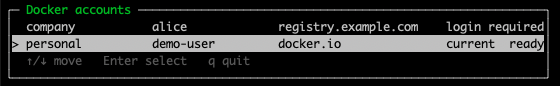
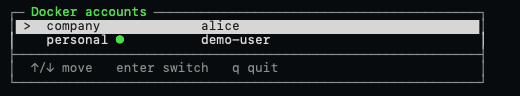
feat: streamline interactive account switching

diff --git a/internal/cli/cli.go b/internal/cli/cli.go
@@ -26,8 +26,7 @@ var errSelectionCanceled = errors.New("account selection canceled")
 const (
 	selectorBorderStyle   = ""
 	selectorAccentStyle   = "32" // the only explicit color
-	selectorCurrentStyle  = ""
-	selectorSelectedStyle = "7" // terminal-native reverse video
+	selectorSelectedStyle = "7"  // terminal-native reverse video
 	selectorMutedStyle    = "2"
 )
 
@@ -258,25 +257,71 @@ func (a *application) use(args []string) error {
 		name, err = a.selectAccount()
 		if err != nil {
 			if errors.Is(err, errSelectionCanceled) {
-				fmt.Fprintln(a.out, "Selection canceled.")
 				return nil
 			}
 			return err
 		}
 	}
-	if err := a.store.Use(name); err != nil {
-		return err
+	account, err := a.store.Get(name)
+	if err != nil {
+		return accountNotFound(name, err)
+	}
+	if len(args) == 0 && a.interactiveTerminal() && !a.store.HasCredentials(name) {
+		loginNow, err := a.confirmInteractiveLogin(account)
+		if err != nil {
+			return err
+		}
+		if !loginNow {
+			fmt.Fprintln(a.out, "No account change was made.")
+			return nil
+		}
+		if err := a.ensurePlugin(name); err != nil {
+			return err
+		}
+		if err := a.loginAccount(account, false); err != nil {
+			current, _ := a.store.Current()
+			if current != "" {
+				return fmt.Errorf("active account remains %q: %w", current, err)
+			}
+			return err
+		}
 	}
 	if err := a.ensurePlugin(name); err != nil {
 		return err
 	}
+	if err := a.store.Use(name); err != nil {
+		return err
+	}
 	if a.shellIntegrationActive() {
-		fmt.Fprintf(a.out, "Switched to Docker account %q.\n", name)
+		fmt.Fprintf(a.out, "✓ Switched to %s.\n", name)
 		return nil
 	}
 	fmt.Fprintf(a.out, "Selected Docker account %q, but the current shell is not activated.\n", name)
 	fmt.Fprintln(a.out, "Run once in this shell: eval \"$(docker account env)\"")
 	return nil
+}
+
+func (a *application) interactiveTerminal() bool {
+	input, inputOK := a.in.(*os.File)
+	output, outputOK := a.out.(*os.File)
+	return inputOK && outputOK && term.IsTerminal(int(input.Fd())) && term.IsTerminal(int(output.Fd()))
+}
+
+func (a *application) confirmInteractiveLogin(account accounts.Account) (bool, error) {
+	fmt.Fprintf(a.out, "\nAccount %q is not logged in to %s.\n", account.Name, account.Registry)
+	fmt.Fprint(a.out, "Login now? [Y/n] ")
+	value, err := bufio.NewReader(a.in).ReadString('\n')
+	if err != nil && !errors.Is(err, io.EOF) {
+		return false, fmt.Errorf("read login confirmation: %w", err)
+	}
+	switch strings.ToLower(strings.TrimSpace(value)) {
+	case "", "y", "yes":
+		return true, nil
+	case "n", "no":
+		return false, nil
+	default:
+		return false, errors.New("expected y or n")
+	}
 }
 
 func (a *application) selectAccount() (string, error) {
@@ -297,10 +342,8 @@ func (a *application) selectAccount() (string, error) {
 			currentIndex = index
 		}
 	}
-	if input, inputOK := a.in.(*os.File); inputOK {
-		if output, outputOK := a.out.(*os.File); outputOK && term.IsTerminal(int(input.Fd())) && term.IsTerminal(int(output.Fd())) {
-			return a.selectAccountTTY(input, items, currentIndex)
-		}
+	if a.interactiveTerminal() {
+		return a.selectAccountTTY(a.in.(*os.File), items, currentIndex)
 	}
 	return a.selectAccountLine(items, currentIndex)
 }
@@ -397,11 +440,25 @@ func (a *application) selectAccountTTY(input *os.File, items []accounts.Account,
 }
 
 func (a *application) renderAccountSelector(items []accounts.Account, currentIndex, selected int, redraw bool) {
-	lineCount := len(items) + 3
+	lineCount := len(items) + 4
 	if redraw {
 		fmt.Fprintf(a.out, "\x1b[%dA", lineCount)
 	}
+	showRegistry := false
+	for _, item := range items {
+		if !isDockerHubRegistry(item.Registry) {
+			showRegistry = true
+			break
+		}
+	}
 	width := a.selectorWidth()
+	maxWidth := 58
+	if showRegistry {
+		maxWidth = 82
+	}
+	if width > maxWidth {
+		width = maxWidth
+	}
 	innerWidth := width - 2
 	color := os.Getenv("NO_COLOR") == "" && os.Getenv("TERM") != "dumb"
 	border := func(value string) string { return ansiStyle(value, selectorBorderStyle, color) }
@@ -414,30 +471,27 @@ func (a *application) renderAccountSelector(items []accounts.Account, currentInd
 	top := border("┌─") + ansiStyle(title, selectorAccentStyle, color) + border(strings.Repeat("─", topFill)+"┐")
 	a.selectorRawLine(top)
 	for index, item := range items {
-		nameLine := selectorAccountText(item, index == selected, index == currentIndex, a.store.HasCredentials(item.Name), innerWidth)
+		nameLine := selectorAccountText(item, index == currentIndex, index == selected, a.store.HasCredentials(item.Name), showRegistry, innerWidth)
 		nameStyle := ""
 		if index == selected {
 			nameStyle = selectorSelectedStyle
-		} else if index == currentIndex {
-			nameStyle = selectorCurrentStyle
 		}
 		a.selectorBoxLine(nameLine, innerWidth, nameStyle, color)
 	}
-	a.selectorBoxLine("  ↑/↓ move   Enter select   q quit", innerWidth, selectorMutedStyle, color)
+	a.selectorRawLine(border("├" + strings.Repeat("─", width-2) + "┤"))
+	a.selectorBoxLine("  ↑/↓ move   enter switch   q quit", innerWidth, selectorMutedStyle, color)
 	a.selectorRawLine(border("└" + strings.Repeat("─", width-2) + "┘"))
 }
 
-func selectorAccountText(item accounts.Account, selected, current, configured bool, width int) string {
-	pointer := "  "
+func selectorAccountText(item accounts.Account, current, selected, configured, showRegistry bool, width int) string {
+	selectionMarker := "  "
 	if selected {
-		pointer = "> "
+		selectionMarker = "> "
 	}
-	status := "login required"
-	if configured {
-		status = "ready"
-	}
-	if current {
-		status = "current  " + status
+	prefix := " " + selectionMarker + " "
+	status := ""
+	if !configured {
+		status = "login"
 	}
 	available := width - utf8.RuneCountInString(status) - 1
 	if available < 1 {
@@ -445,17 +499,40 @@ func selectorAccountText(item accounts.Account, selected, current, configured bo
 	}
 	var details string
 	switch {
-	case width >= 68:
-		details = pointer + fixedColumn(item.Name, 16) + "  " + fixedColumn(item.Username, 16) + "  " + item.Registry
-	case width >= 54:
-		details = pointer + fixedColumn(item.Name, 14) + "  " + fixedColumn(item.Username, 14) + "  " + item.Registry
+	case showRegistry && width >= 68:
+		details = prefix + selectorProfileName(item.Name, current, 16) + "  " + fixedColumn(item.Username, 16) + "  " + item.Registry
+	case showRegistry:
+		details = prefix + selectorProfileName(item.Name, current, 14) + "  " + item.Registry
 	case width >= 44:
-		details = pointer + fixedColumn(item.Name, 14) + "  " + item.Username
+		details = prefix + selectorProfileName(item.Name, current, 16) + "  " + item.Username
 	default:
-		details = pointer + item.Name
+		details = prefix + selectorProfileName(item.Name, current, available-utf8.RuneCountInString(prefix))
 	}
 	details = truncateText(strings.TrimRight(details, " "), available)
 	return padBetween(details, status, width)
+}
+
+func selectorProfileName(name string, current bool, width int) string {
+	if !current {
+		return fixedColumn(name, width)
+	}
+	const activeLabel = " ●"
+	nameWidth := width - utf8.RuneCountInString(activeLabel)
+	if nameWidth < 1 {
+		return fixedColumn("●", width)
+	}
+	return fixedColumn(truncateText(name, nameWidth)+activeLabel, width)
+}
+
+func isDockerHubRegistry(registry string) bool {
+	registry = strings.ToLower(strings.TrimSpace(registry))
+	registry = strings.TrimSuffix(registry, "/")
+	switch registry {
+	case "docker.io", "index.docker.io", "registry-1.docker.io", "https://index.docker.io/v1":
+		return true
+	default:
+		return false
+	}
 }
 
 func fixedColumn(value string, width int) string {

diff --git a/internal/cli/cli_test.go b/internal/cli/cli_test.go
@@ -89,7 +89,7 @@ func TestUseOutputWhenShellIntegrationIsActive(t *testing.T) {
 	if err := app.use([]string{"work"}); err != nil {
 		t.Fatal(err)
 	}
-	if got := out.String(); got != "Switched to Docker account \"work\".\n" {
+	if got := out.String(); got != "✓ Switched to work.\n" {
 		t.Fatalf("unexpected output: %q", got)
 	}
 }
@@ -136,7 +136,7 @@ func TestUseInteractiveSelectionByNumber(t *testing.T) {
 	if current != "company" {
 		t.Fatalf("current = %q", current)
 	}
-	for _, expected := range []string{"Select a Docker account:", "default", "company", `Switched to Docker account "company".`} {
+	for _, expected := range []string{"Select a Docker account:", "default", "company", "✓ Switched to company."} {
 		if !strings.Contains(out.String(), expected) {
 			t.Errorf("output missing %q:\n%s", expected, out.String())
 		}
@@ -173,7 +173,7 @@ func TestMoveSelectionWraps(t *testing.T) {
 }
 
 func TestSelectorTextLayout(t *testing.T) {
-	if got := padBetween("> account", "current  ready", 36); utf8.RuneCountInString(got) != 36 {
+	if got := padBetween(" >  account ●", "login", 36); utf8.RuneCountInString(got) != 36 {
 		t.Fatalf("layout width = %d: %q", utf8.RuneCountInString(got), got)
 	}
 	if got := truncateText("a-very-long-account-name", 10); got != "a-very-lo…" {
@@ -183,17 +183,76 @@ func TestSelectorTextLayout(t *testing.T) {
 
 func TestSelectorAccountUsesSingleLine(t *testing.T) {
 	item := accounts.Account{Name: "company", Username: "alice", Registry: "registry.example.com"}
-	got := selectorAccountText(item, true, true, true, 76)
+	got := selectorAccountText(item, true, true, true, true, 76)
 	if strings.Contains(got, "\n") {
 		t.Fatalf("account row contains a newline: %q", got)
 	}
-	for _, expected := range []string{"> company", "alice", "registry.example.com", "current", "ready"} {
+	for _, expected := range []string{">  company ●", "alice", "registry.example.com"} {
 		if !strings.Contains(got, expected) {
 			t.Errorf("row missing %q: %q", expected, got)
 		}
 	}
+	if strings.Contains(got, "login") {
+		t.Fatalf("healthy row displays a redundant status: %q", got)
+	}
 	if width := utf8.RuneCountInString(got); width != 76 {
 		t.Fatalf("row width = %d: %q", width, got)
+	}
+}
+
+func TestSelectorHidesDockerHubRegistryAndHealthyStatus(t *testing.T) {
+	item := accounts.Account{Name: "personal", Username: "demo-user", Registry: "docker.io"}
+	got := selectorAccountText(item, true, false, true, false, 56)
+	if strings.Contains(got, "docker.io") || strings.Contains(got, "Ready") {
+		t.Fatalf("row contains redundant Docker Hub information: %q", got)
+	}
+	for _, expected := range []string{"personal ●", "demo-user"} {
+		if !strings.Contains(got, expected) {
+			t.Errorf("row missing %q: %q", expected, got)
+		}
+	}
+}
+
+func TestSelectorShowsOnlyExceptionalStatus(t *testing.T) {
+	item := accounts.Account{Name: "company", Username: "alice", Registry: "docker.io"}
+	got := selectorAccountText(item, false, true, false, false, 56)
+	for _, expected := range []string{">", "company", "alice", "login"} {
+		if !strings.Contains(got, expected) {
+			t.Errorf("row missing %q: %q", expected, got)
+		}
+	}
+}
+
+func TestDockerHubRegistryAliases(t *testing.T) {
+	for _, registry := range []string{"docker.io", "index.docker.io", "registry-1.docker.io", "https://index.docker.io/v1/"} {
+		if !isDockerHubRegistry(registry) {
+			t.Errorf("expected Docker Hub registry: %q", registry)
+		}
+	}
+	if isDockerHubRegistry("registry.example.com") {
+		t.Fatal("private registry identified as Docker Hub")
+	}
+}
+
+func TestConfirmInteractiveLogin(t *testing.T) {
+	account := accounts.Account{Name: "company", Registry: "registry.example.com"}
+	for _, test := range []struct {
+		input string
+		want  bool
+	}{
+		{"\n", true},
+		{"yes\n", true},
+		{"n\n", false},
+	} {
+		var out bytes.Buffer
+		app := application{in: strings.NewReader(test.input), out: &out}
+		got, err := app.confirmInteractiveLogin(account)
+		if err != nil {
+			t.Fatal(err)
+		}
+		if got != test.want {
+			t.Fatalf("input %q: got %v, want %v", test.input, got, test.want)
+		}
 	}
 }
 

diff --git a/CHANGELOG.md b/CHANGELOG.md
@@ -4,6 +4,14 @@ All notable changes are documented here. This project follows Semantic Versionin
 
 ## [Unreleased]
 
+## [0.8.3] - 2026-08-04
+
+- Reduced the interactive selector to profiles, usernames, active state, and keyboard focus.
+- Hid Docker Hub registry and healthy credential status when they do not distinguish accounts.
+- Added login guidance before interactively switching to an account without credentials.
+- Preserved the active account when login or account preparation fails.
+- Updated the README selector screenshot.
+
 ## [0.8.2] - 2026-08-04
 
 - Made the installer verify the binary it just installed, including custom plugin directories.
@@ -33,7 +41,8 @@ All notable changes are documented here. This project follows Semantic Versionin
 - Kept registry credentials isolated per account.
 - Improved interactive account selection and shell switching.
 
-[Unreleased]: https://github.com/smartcat999/docker-account/compare/v0.8.2...HEAD
+[Unreleased]: https://github.com/smartcat999/docker-account/compare/v0.8.3...HEAD
+[0.8.3]: https://github.com/smartcat999/docker-account/compare/v0.8.2...v0.8.3
 [0.8.2]: https://github.com/smartcat999/docker-account/compare/v0.8.1...v0.8.2
 [0.8.1]: https://github.com/smartcat999/docker-account/compare/v0.8.0...v0.8.1
 [0.8.0]: https://github.com/smartcat999/docker-account/compare/v0.7.5...v0.8.0

diff --git a/README.md b/README.md
@@ -22,7 +22,7 @@ Prebuilt binaries are available for macOS and Linux on amd64 and arm64.
 To install a specific version:
 
 ```bash
-curl -fsSL https://github.com/smartcat999/docker-account/releases/download/v0.8.2/install.sh | sh
+curl -fsSL https://github.com/smartcat999/docker-account/releases/download/v0.8.3/install.sh | sh
 ```
 
 ## Quick start
